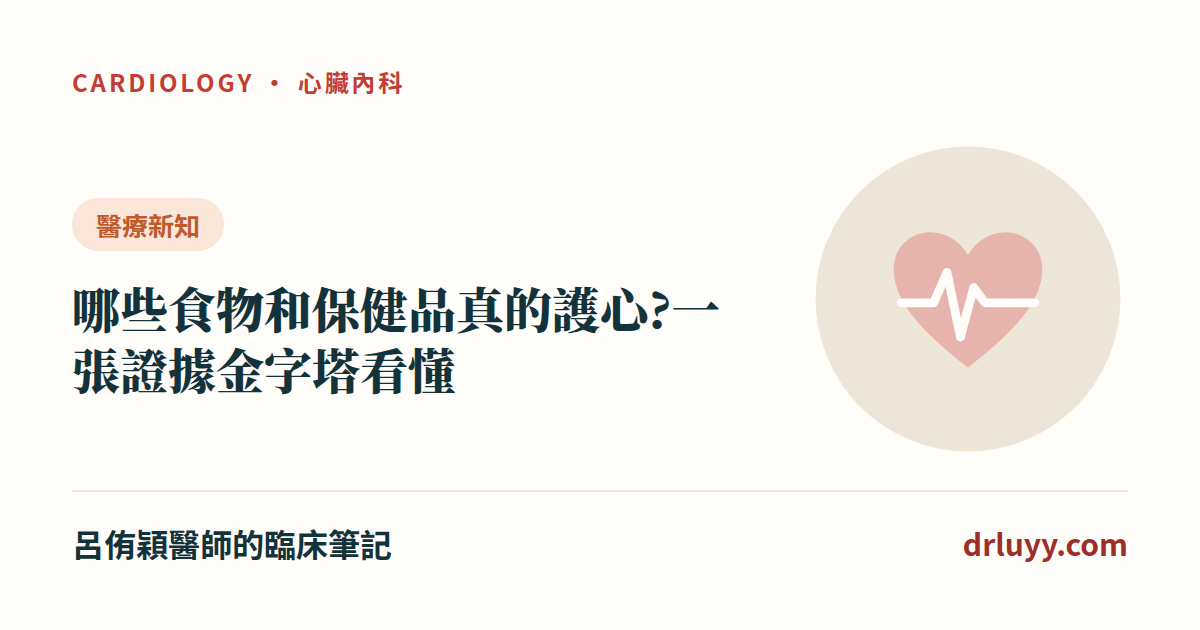
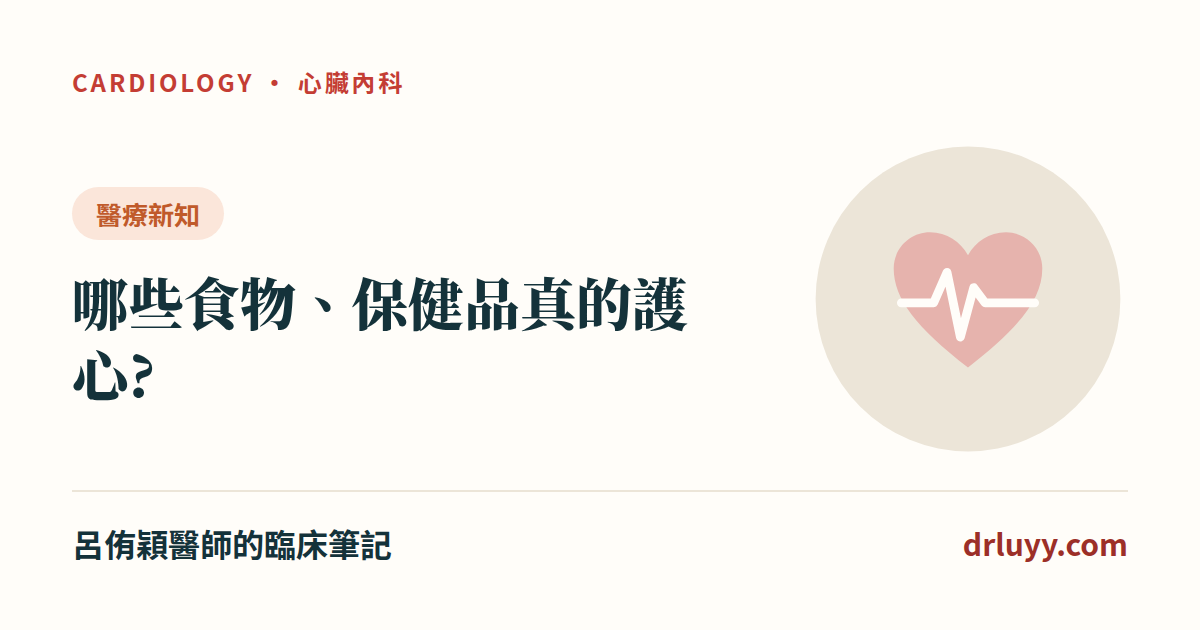
證據金字塔文章:改短標題、補首頁最新文章 + 預防保健卡 — build 全站同步

Changed region(s): [[0.0617, 0.2714, 0.5858, 0.6333]]

diff --git a/posts/cv-diet-supplement-evidence.html b/posts/cv-diet-supplement-evidence.html
@@ -3,12 +3,12 @@
 <head>
 <meta charset="UTF-8">
 <meta name="viewport" content="width=device-width, initial-scale=1.0">
-<title>哪些食物和保健品真的護心?一張證據金字塔看懂 — 台安醫院心臟內科。呂侑穎醫師。臨床筆記</title>
+<title>哪些食物、保健品真的護心? — 台安醫院心臟內科。呂侑穎醫師。臨床筆記</title>
 <meta name="description" content="網路上的「護心食物」「護心保健品」清單一大堆,但證據強度差非常多。這篇把國際重要試驗與指引整理成一張證據金字塔:真正有隨機試驗證明能減少心肌梗塞、中風或死亡的,只有地中海飲食、含鉀代鹽,以及特定族群補葉酸預防中風;得舒飲食+減鹽、好油取代動物油、堅果、黃豆、豆類能降血壓或膽固醇;蔬果、全穀、魚、綠茶">
 <meta name="author" content="呂侑穎醫師">
 <meta name="robots" content="index, follow">
 <link rel="canonical" href="https://drluyy.com/posts/cv-diet-supplement-evidence.html">
-<meta property="og:title" content="哪些食物和保健品真的護心?一張證據金字塔看懂">
+<meta property="og:title" content="哪些食物、保健品真的護心?">
 <meta property="og:description" content="網路上的「護心食物」「護心保健品」清單一大堆,但證據強度差非常多。這篇把國際重要試驗與指引整理成一張證據金字塔:真正有隨機試驗證明能減少心肌梗塞、中風或死亡的,只有地中海飲食、含鉀代鹽,以及特定族群補葉酸預防中風;得舒飲食+減鹽、好油取代動物油、堅果、黃豆、豆類能降血壓或膽固醇;蔬果、全穀、魚、綠茶">
 <meta property="og:type" content="article">
 <meta property="og:url" content="https://drluyy.com/posts/cv-diet-supplement-evidence.html">
@@ -21,7 +21,7 @@
 <meta name="twitter:image" content="https://drluyy.com/img/og/cv-diet-supplement-evidence.png">
 <link rel="icon" href="../favicon.svg" type="image/svg+xml">
 <script type="application/ld+json">
-{"@context":"https://schema.org","@type":"MedicalWebPage","headline":"哪些食物和保健品真的護心?一張證據金字塔看懂","name":"哪些食物和保健品真的護心?一張證據金字塔看懂","description":"網路上的「護心食物」「護心保健品」清單一大堆,但證據強度差非常多。這篇把國際重要試驗與指引整理成一張證據金字塔:真正有隨機試驗證明能減少心肌梗塞、中風或死亡的,只有地中海飲食、含鉀代鹽,以及特定族群補葉酸預防中風;得舒飲食+減鹽、好油取代動物油、堅果、黃豆、豆類能降血壓或膽固醇;蔬果、全穀、魚、綠茶","url":"https://drluyy.com/posts/cv-diet-supplement-evidence.html","inLanguage":"zh-TW","image":"https://drluyy.com/img/og/cv-diet-supplement-evidence.png","author":{"@type":"Person","name":"呂侑穎","jobTitle":"心臟內科醫師","url":"https://drluyy.com/about.html","sameAs":["https://www.tahsda.org.tw/doctors/doctorcard.php?doctorid=058","https://www.threads.com/@aluminum001"]},"publisher":{"@type":"Organization","name":"台安醫院心臟內科。呂侑穎醫師。臨床筆記"},"dateModified":"2026-09-28","mainEntityOfPage":"https://drluyy.com/posts/cv-diet-supplement-evidence.html","datePublished":"2026-09-28"}
+{"@context":"https://schema.org","@type":"MedicalWebPage","headline":"哪些食物、保健品真的護心?","name":"哪些食物、保健品真的護心?","description":"網路上的「護心食物」「護心保健品」清單一大堆,但證據強度差非常多。這篇把國際重要試驗與指引整理成一張證據金字塔:真正有隨機試驗證明能減少心肌梗塞、中風或死亡的,只有地中海飲食、含鉀代鹽,以及特定族群補葉酸預防中風;得舒飲食+減鹽、好油取代動物油、堅果、黃豆、豆類能降血壓或膽固醇;蔬果、全穀、魚、綠茶","url":"https://drluyy.com/posts/cv-diet-supplement-evidence.html","inLanguage":"zh-TW","image":"https://drluyy.com/img/og/cv-diet-supplement-evidence.png","author":{"@type":"Person","name":"呂侑穎","jobTitle":"心臟內科醫師","url":"https://drluyy.com/about.html","sameAs":["https://www.tahsda.org.tw/doctors/doctorcard.php?doctorid=058","https://www.threads.com/@aluminum001"]},"publisher":{"@type":"Organization","name":"台安醫院心臟內科。呂侑穎醫師。臨床筆記"},"dateModified":"2026-09-28","mainEntityOfPage":"https://drluyy.com/posts/cv-diet-supplement-evidence.html","datePublished":"2026-09-28"}
 </script>
 <link rel="preconnect" href="https://fonts.googleapis.com">
 <link rel="preconnect" href="https://fonts.gstatic.com" crossorigin>
@@ -64,7 +64,7 @@ gtag('config', 'G-BC1Z8X6BQT');
 <a class="back-link" href="../index.html">&larr; 回到全部文章</a>
 <div class="article-head">
 <span class="card-tag news">醫療新知</span>
-<h1>哪些食物和保健品真的護心?一張證據金字塔看懂</h1>
+<h1>哪些食物、保健品真的護心?</h1>
 <div class="article-meta">
 <span>實證整理</span>
 <span>隨機試驗 + 統合分析 + 國際指引</span>
@@ -72,7 +72,7 @@ gtag('config', 'G-BC1Z8X6BQT');
 </div>
 <div class="content-card">
 <figure class="article-figure"><a href="../img/fig/cv-evidence-pyramid.png" target="_blank" rel="noopener"><img src="../img/fig/cv-evidence-pyramid.png" alt="護心飲食與補充品證據金字塔:第一級地中海飲食、含鉀代鹽、葉酸;第二級得舒飲食、好油、堅果黃豆豆類、植物固醇、洋車前子;第三級蔬果全穀魚綠茶咖啡;未證實有效與有害的保健品" width="1080" height="1350" loading="lazy"></a><figcaption>一張圖看懂護心飲食與保健品的證據強度(點圖看大圖、可存圖分享)</figcaption></figure>
-<div class="article-body">【醫療新知】哪些食物和保健品真的護心?一張證據金字塔看懂
+<div class="article-body">【醫療新知】哪些食物、保健品真的護心?
 
 ━━━━━━━━━━━━━━━━━━━━━━━
 
@@ -374,7 +374,7 @@ gtag('config', 'G-BC1Z8X6BQT');
 <section class="comments-wrap">
 <h2 class="comments-title">留言與回饋</h2>
 <p class="comments-note">歡迎在下方留下你的想法或問題，留言經審核後才會公開顯示。<strong>提醒：本區不提供個別診療，個人病情請就醫或掛號諮詢。</strong></p>
-<div id="cusdis_thread" data-host="https://cusdis.com" data-app-id="0587d292-27ab-4082-bc76-15c0cd50293d" data-page-id="https://drluyy.com/posts/cv-diet-supplement-evidence.html" data-page-url="https://drluyy.com/posts/cv-diet-supplement-evidence.html" data-page-title="哪些食物和保健品真的護心?一張證據金字塔看懂"></div>
+<div id="cusdis_thread" data-host="https://cusdis.com" data-app-id="0587d292-27ab-4082-bc76-15c0cd50293d" data-page-id="https://drluyy.com/posts/cv-diet-supplement-evidence.html" data-page-url="https://drluyy.com/posts/cv-diet-supplement-evidence.html" data-page-title="哪些食物、保健品真的護心?"></div>
 <script async defer src="https://cusdis.com/js/cusdis.es.js"></script>
 </section>
 

diff --git a/index.html b/index.html
@@ -130,21 +130,21 @@ gtag('config', 'G-BC1Z8X6BQT');
 <a href="posts.html" class="more">查看全部文章 →</a>
 </div>
 <div class="cards" style="padding-left:0;padding-right:0">
+<a class="card" href="posts/cv-diet-supplement-evidence.html">
+<div class="card-header">
+<span class="card-tag news">醫療新知</span>
+<div class="card-title">哪些食物、保健品真的護心?</div>
+<div class="card-subtitle">網路上的「護心食物」「護心保健品」清單一大堆,但證據強度差非常多。這篇把國際重要試驗與指引整理成一張證據金字塔:真正有隨機試驗證明能減少心肌梗塞、中風或死亡的,只有地中海飲食、含鉀代鹽,以及特定族群補葉酸預防中風;得舒飲食+減鹽、好油取代動物油、堅果、黃豆、豆類能降血壓或膽固醇;蔬果、全穀、魚、綠茶、咖啡多是觀察性研究的「相關」。至於維生素 D、綜合維他命、維生素 C、硒、一般人吃魚油,大型試驗都未證實能預防心血管病;β-胡蘿蔔素、維生素 E 補充劑、高劑量菸鹼酸不建議為護心自行補充,市售紅麴品質不穩。每個重點都標明出處。</div>
+<div class="card-meta"><span>2026-09-28</span></div>
+</div>
+<div class="card-footer"><span class="read-btn">閱讀全文 →</span></div>
+</a>
 <a class="card" href="posts/fish-oil-how-to-choose.html">
 <div class="card-header">
 <span class="card-tag news">醫療新知</span>
 <div class="card-title">魚油怎麼挑?看懂標籤 5 個數字——顧心臟、顧大腦各買哪種</div>
 <div class="card-subtitle">架上魚油標籤五花八門、價差好幾倍,到底該看什麼?這篇不推牌子,只教你用科學的角度挑:① 別看「魚油 1000 毫克」,要看每份 EPA+DHA 多少;② 型態 rTG、天然 TG、乙酯型(EE)吸收率不同(rTG 124%、EE 73%),但配正餐吃差很多;③ 新鮮度比牌子重要——紐西蘭抽驗 32 款只有 8% 符合國際建議;④ 顧心臟:健康人吃魚油預防心臟病,大型試驗(VITAL、ASCEND)多半沒效,有效的是處方級高純度 EPA,且劑量越高心房顫動風險越高;⑤ 顧大腦:健康人防失智沒證據,但懷孕補 Omega-3 可減少早產、憂鬱症輔助要選 EPA 為主。每個重點都標明出處。</div>
 <div class="card-meta"><span>2026-09-28</span></div>
-</div>
-<div class="card-footer"><span class="read-btn">閱讀全文 →</span></div>
-</a>
-<a class="card" href="posts/creatine-resistance-training.html">
-<div class="card-header">
-<span class="card-tag news">醫療新知</span>
-<div class="card-title">重訓配肌酸,到底加不加分?——最新統合分析:力量、肌肉真的多長,而且不傷腎</div>
-<div class="card-subtitle">肌酸(creatine)是健身房裡最紅、也最多疑問的補充品:「到底有沒有用?」「會不會傷腎?」「怎麼吃?」2026 年一篇史上規模數一數二的統合分析(63 個研究、1489 人)給了清楚答案:重訓再加肌酸,比只重訓——上肢力量、下肢力量、瘦肉量都明顯多長,體脂率還小幅下降;體重微增的部分主要是肌肉、不是脂肪,年輕人力量進步更明顯。至於「傷不傷腎」,國際運動營養學會(ISSN)立場聲明整理大量研究:健康人每天最多 30 克、連續吃 5 年都安全且耐受良好。這篇用白話把「有沒有效、安不安全、怎麼吃」一次講清楚——每個重點都標明出處。</div>
-<div class="card-meta"><span>2026-09-23</span></div>
 </div>
 <div class="card-footer"><span class="read-btn">閱讀全文 →</span></div>
 </a>
@@ -195,12 +195,12 @@ gtag('config', 'G-BC1Z8X6BQT');
 <a href="posts.html" class="more">查看全部 53 篇 →</a>
 </div>
 <div class="cards" style="padding-left:0;padding-right:0">
-<a class="card" href="posts/cv-diet-supplement-evidence.html">
+<a class="card" href="posts/creatine-resistance-training.html">
 <div class="card-header">
 <span class="card-tag news">醫療新知</span>
-<div class="card-title">哪些食物和保健品真的護心?一張證據金字塔看懂</div>
-<div class="card-subtitle">網路上的「護心食物」「護心保健品」清單一大堆,但證據強度差非常多。這篇把國際重要試驗與指引整理成一張證據金字塔:真正有隨機試驗證明能減少心肌梗塞、中風或死亡的,只有地中海飲食、含鉀代鹽,以及特定族群補葉酸預防中風;得舒飲食+減鹽、好油取代動物油、堅果、黃豆、豆類能降血壓或膽固醇;蔬果、全穀、魚、綠茶、咖啡多是觀察性研究的「相關」。至於維生素 D、綜合維他命、維生素 C、硒、一般人吃魚油,大型試驗都未證實能預防心血管病;β-胡蘿蔔素、維生素 E 補充劑、高劑量菸鹼酸不建議為護心自行補充,市售紅麴品質不穩。每個重點都標明出處。</div>
-<div class="card-meta"><span>實證整理</span><span>隨機試驗 + 統合分析 + 國際指引</span></div>
+<div class="card-title">重訓配肌酸,到底加不加分?——最新統合分析:力量、肌肉真的多長,而且不傷腎</div>
+<div class="card-subtitle">肌酸(creatine)是健身房裡最紅、也最多疑問的補充品:「到底有沒有用?」「會不會傷腎?」「怎麼吃?」2026 年一篇史上規模數一數二的統合分析(63 個研究、1489 人)給了清楚答案:重訓再加肌酸,比只重訓——上肢力量、下肢力量、瘦肉量都明顯多長,體脂率還小幅下降;體重微增的部分主要是肌肉、不是脂肪,年輕人力量進步更明顯。至於「傷不傷腎」,國際運動營養學會(ISSN)立場聲明整理大量研究:健康人每天最多 30 克、連續吃 5 年都安全且耐受良好。這篇用白話把「有沒有效、安不安全、怎麼吃」一次講清楚——每個重點都標明出處。</div>
+<div class="card-meta"><span>實證整理</span><span>統合分析 63 研究 + ISSN 立場聲明</span></div>
 </div>
 <div class="card-footer"><span class="read-btn">閱讀全文 →</span></div>
 </a>

diff --git a/posts.html b/posts.html
@@ -71,7 +71,7 @@ gtag('config', 'G-BC1Z8X6BQT');
 <a class="card" href="posts/cv-diet-supplement-evidence.html">
 <div class="card-header">
 <span class="card-tag news">醫療新知</span>
-<div class="card-title">哪些食物和保健品真的護心?一張證據金字塔看懂</div>
+<div class="card-title">哪些食物、保健品真的護心?</div>
 <div class="card-subtitle">網路上的「護心食物」「護心保健品」清單一大堆,但證據強度差非常多。這篇把國際重要試驗與指引整理成一張證據金字塔:真正有隨機試驗證明能減少心肌梗塞、中風或死亡的,只有地中海飲食、含鉀代鹽,以及特定族群補葉酸預防中風;得舒飲食+減鹽、好油取代動物油、堅果、黃豆、豆類能降血壓或膽固醇;蔬果、全穀、魚、綠茶、咖啡多是觀察性研究的「相關」。至於維生素 D、綜合維他命、維生素 C、硒、一般人吃魚油,大型試驗都未證實能預防心血管病;β-胡蘿蔔素、維生素 E 補充劑、高劑量菸鹼酸不建議為護心自行補充,市售紅麴品質不穩。每個重點都標明出處。</div>
 <div class="card-meta"><span>實證整理</span><span>隨機試驗 + 統合分析 + 國際指引</span></div>
 </div>

diff --git a/news.html b/news.html
@@ -73,7 +73,7 @@ gtag('config', 'G-BC1Z8X6BQT');
 <a class="card" href="posts/cv-diet-supplement-evidence.html">
 <div class="card-header">
 <span class="card-tag news">醫療新知</span>
-<div class="card-title">哪些食物和保健品真的護心?一張證據金字塔看懂</div>
+<div class="card-title">哪些食物、保健品真的護心?</div>
 <div class="card-subtitle">網路上的「護心食物」「護心保健品」清單一大堆,但證據強度差非常多。這篇把國際重要試驗與指引整理成一張證據金字塔:真正有隨機試驗證明能減少心肌梗塞、中風或死亡的,只有地中海飲食、含鉀代鹽,以及特定族群補葉酸預防中風;得舒飲食+減鹽、好油取代動物油、堅果、黃豆、豆類能降血壓或膽固醇;蔬果、全穀、魚、綠茶、咖啡多是觀察性研究的「相關」。至於維生素 D、綜合維他命、維生素 C、硒、一般人吃魚油,大型試驗都未證實能預防心血管病;β-胡蘿蔔素、維生素 E 補充劑、高劑量菸鹼酸不建議為護心自行補充,市售紅麴品質不穩。每個重點都標明出處。</div>
 <div class="card-meta">
 <span>實證整理</span>

diff --git a/prevention.html b/prevention.html
@@ -126,6 +126,14 @@ gtag('config', 'G-BC1Z8X6BQT');
 </div>
 <div class="card-footer"><span class="read-btn">閱讀全文 &rarr;</span></div>
 </a>
+<a class="card" href="posts/cv-diet-supplement-evidence.html">
+<div class="card-header">
+<span class="card-tag prevent">預防保健</span>
+<div class="card-title">哪些食物、保健品真的護心?</div>
+<div class="card-subtitle">一張證據金字塔看懂:有隨機試驗證明能減少心肌梗塞、中風或死亡的只有地中海飲食、含鉀代鹽、特定族群補葉酸;得舒飲食、好油、堅果黃豆豆類能降血壓膽固醇;維生素 D、綜合維他命、一般人吃魚油未證實有效,β-胡蘿蔔素、維生素 E 不建議自行補充</div>
+</div>
+<div class="card-footer"><span class="read-btn">閱讀全文 &rarr;</span></div>
+</a>
 <a class="card" href="posts/fish-oil-how-to-choose.html">
 <div class="card-header">
 <span class="card-tag prevent">預防保健</span>
